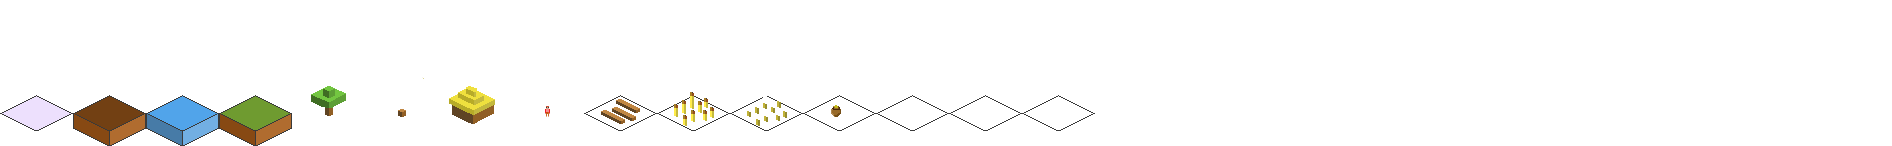
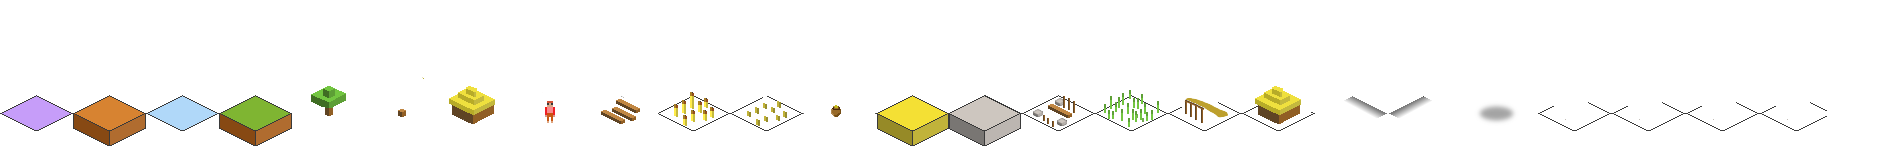
Added fake soft shadow rendering

diff --git a/js/render.js b/js/render.js
@@ -22,10 +22,10 @@
     }
 
     Render.prototype.resize = function() {
-      this.viewport_width = parseInt(window.innerWidth / this.tile_width / 2, 10);
-      this.viewport_height = parseInt(window.innerHeight / this.tile_height / 2, 10);
+      this.viewport_width = parseInt(window.innerWidth / (this.tile_width * this.zoom) / 2, 10);
+      this.viewport_height = parseInt(window.innerHeight / (this.tile_height * this.zoom) / 2, 10);
       this.viewport_offset_x = window.innerWidth / 2;
-      return this.viewport_offset_y = 0;
+      return this.viewport_offset_y = -120;
     };
 
     Render.prototype.update = function() {
@@ -69,7 +69,7 @@
     };
 
     Render.prototype.update_map = function() {
-      var height, i, ix, iy, light, ox, oy, ref, results, tile, x, y;
+      var actor, height, i, ix, iy, light, ox, oy, ref, results, task, tile, x, y;
       this.map_context.clearRect(0, 0, 2000, 2000);
       results = [];
       for (x = i = 1, ref = this.viewport_width; 1 <= ref ? i <= ref : i >= ref; x = 1 <= ref ? ++i : --i) {
@@ -93,17 +93,33 @@
             }
             tile = this.world.map[ox][oy].tile;
             height = this.world.map[ox][oy].get_vertical_offset();
-            if (this.world.map[ox][oy].height < this.world.water_level) {
-              height = 0;
-            }
             ix = x * this.tile_width - (y * this.tile_width);
             iy = y * this.tile_height + (x * this.tile_height);
             light = this.world.light[ox][oy];
+            if (height < this.world.water_level) {
+              light = 10;
+            }
             this.draw_tile(this.map_context, tile, ix, iy, height, light);
+            if (oy > 1 && this.world.map[ox][oy - 1].height > height) {
+              this.draw_tile(this.map_context, 18, ix, iy, height, light);
+            }
+            if (ox > 1 && this.world.map[ox - 1][oy].height > height) {
+              this.draw_tile(this.map_context, 19, ix, iy, height, light);
+            }
+            if (this.world.items[ox][oy]) {
+              this.draw_tile(this.map_context, 20, ix, iy, height, light);
+            }
+            if (height < this.world.water_level) {
+              this.draw_tile(this.map_context, 2, ix, iy, this.world.water_level, light);
+            }
             this.map_context.fillStyle = '#ccc';
-            if (this.world.task[ox][oy]) {
+            task = this.world.task[ox][oy];
+            if (task) {
+              if (task.work > 0) {
+                this.map_context.fillText(task.work, ix + this.viewport_offset_x + this.tile_width / 2, (iy + this.viewport_offset_y - height * 3) + 85);
+              }
               if (!this.world.items[ox][oy]) {
-                this.map_context.fillText(this.world.task[ox][oy].abbr, ix + this.viewport_offset_x + 17, (iy + this.viewport_offset_y - height * 3) + 85);
+                this.map_context.fillText(task.abbr, ix + this.viewport_offset_x + 17, (iy + this.viewport_offset_y - height * 3) + 85);
               }
             }
             if (this.world.items[ox][oy]) {
@@ -114,7 +130,8 @@
               }
             }
             if (this.world.actors[ox][oy]) {
-              tile = this.world.actors[ox][oy].get_tile();
+              actor = this.world.actors[ox][oy];
+              tile = actor.get_tile();
               this.draw_tile(this.map_context, tile, ix, iy, height, light);
               if (this.world.actors[ox][oy].carry) {
                 tile = this.world.actors[ox][oy].carry.get_tile();

diff --git a/js/world.js b/js/world.js
@@ -351,7 +351,7 @@
           var j, ref1, results1;
           results1 = [];
           for (y = j = 1, ref1 = this.height; 1 <= ref1 ? j <= ref1 : j >= ref1; y = 1 <= ref1 ? ++j : --j) {
-            results1.push(this.map[x][y] = new window.Grass(this, x, y, this.height_map[x][y]));
+            results1.push(this.map[x][y] = new window.Beach(this, x, y, this.height_map[x][y]));
           }
           return results1;
         }).call(this));
@@ -394,8 +394,8 @@
           plains[x][y] = Math.floor(Math.random() * 10);
         }
       }
-      this.smoothen(plains, 6);
-      this.normalize(plains, 3);
+      this.smoothen(plains, 10);
+      this.normalize(plains, 4);
       this.lightmap();
       results = [];
       for (x = k = 1, ref2 = this.width; 1 <= ref2 ? k <= ref2 : k >= ref2; x = 1 <= ref2 ? ++k : --k) {
@@ -404,21 +404,26 @@
           var l, ref3, results1;
           results1 = [];
           for (y = l = 1, ref3 = this.height; 1 <= ref3 ? l <= ref3 : l >= ref3; y = 1 <= ref3 ? ++l : --l) {
-            this.map[x][y] = new window.Grass(this, x, y, this.height_map[x][y]);
-            if (plains[x][y] === 1) {
-              this.map[x][y] = new window.Grass(this, x, y, this.height_map[x][y]);
-            }
-            if (Math.floor(Math.random() * 50) === 1) {
-              this.items[x][y] = new window.Wheat(this, x, y, this.height_map[x][y]);
-            }
-            if (plains[x][y] === 3) {
-              this.items[x][y] = new window.Tree(this, x, y, this.height_map[x][y]);
-            }
+            this.map[x][y] = new window.Plains(this, x, y, this.height_map[x][y]);
             if (this.height_map[x][y] < this.water_level) {
-              this.map[x][y] = new window.Water(this, x, y, this.height_map[x][y]);
-              results1.push(this.items[x][y] = null);
+              results1.push(this.map[x][y] = new window.Dirt(this, x, y, this.height_map[x][y]));
             } else {
-              results1.push(void 0);
+              if (Math.floor(Math.random() * 40) === 1) {
+                this.items[x][y] = new window.Wheat(this, x, y, this.height_map[x][y]);
+              }
+              if (plains[x][y] === 4) {
+                this.items[x][y] = new window.Tree(this, x, y, this.height_map[x][y]);
+              }
+              if (x > 1 && y > 1 && x < this.width - 2 && y < this.height - 2) {
+                if ((this.height_map[x + 1][y] < this.water_level) || (this.height_map[x - 1][y] < this.water_level) || (this.height_map[x][y - 1] < this.water_level) || (this.height_map[x][y + 1] < this.water_level)) {
+                  this.map[x][y] = new window.Beach(this, x, y, this.height_map[x][y]);
+                  results1.push(this.items[x][y] = null);
+                } else {
+                  results1.push(void 0);
+                }
+              } else {
+                results1.push(void 0);
+              }
             }
           }
           return results1;

diff --git a/js/location.js b/js/location.js
@@ -70,16 +70,16 @@
 
   })(window.Location);
 
-  window.Grass = (function(superClass) {
-    extend(Grass, superClass);
+  window.Plains = (function(superClass) {
+    extend(Plains, superClass);
 
-    function Grass() {
-      return Grass.__super__.constructor.apply(this, arguments);
+    function Plains() {
+      return Plains.__super__.constructor.apply(this, arguments);
     }
 
-    Grass.prototype.tile = 3;
+    Plains.prototype.tile = 3;
 
-    return Grass;
+    return Plains;
 
   })(window.Location);
 
@@ -93,6 +93,19 @@
     Dirt.prototype.tile = 1;
 
     return Dirt;
+
+  })(window.Location);
+
+  window.Beach = (function(superClass) {
+    extend(Beach, superClass);
+
+    function Beach() {
+      return Beach.__super__.constructor.apply(this, arguments);
+    }
+
+    Beach.prototype.tile = 12;
+
+    return Beach;
 
   })(window.Location);
 

diff --git a/tiled.html b/tiled.html
@@ -44,10 +44,12 @@
         <script type="text/javascript" src="js/objects/materials/wheat.js"></script>
         <script type="text/javascript" src="js/objects/materials/potato.js"></script>
         <script type="text/javascript" src="js/objects/materials/potato_plant.js"></script>
+        <script type="text/javascript" src="js/objects/materials/grass.js"></script>
 
         <!-- Buildings -->
         <script type="text/javascript" src="js/objects/building.js"></script>
         <script type="text/javascript" src="js/objects/building/house.js"></script>
+        <script type="text/javascript" src="js/objects/building/buildsite.js"></script>
 
         <!-- Tasks -->
         <script type="text/javascript" src="js/tasks/build.js"></script>

diff --git a/js/tasks/build.js b/js/tasks/build.js
@@ -8,9 +8,7 @@
 
     BuildTask.prototype.get_tile = function() {
       if (this.material_at_build) {
-        return "construction";
-      } else {
-        return "command";
+        return 12;
       }
     };
 
@@ -58,7 +56,9 @@
           }
         }
         this.world.remove_item(material_at_location);
-        this.material_at_build = true;
+        if (!this.material_at_build) {
+          this.world.add_item(new Buildsite(this.world, this.x, this.y));
+        }
       }
       ref1 = this.options.needs;
       for (index in ref1) {

diff --git a/js/actors.js b/js/actors.js
@@ -24,8 +24,6 @@
       this.target_x = x;
       this.target_y = y;
       this.tasks = [];
-      this.tile_offset_x = Math.random() * 10 - 20;
-      this.tile_offset_y = Math.random() * 10 - 20;
       this.id = this.world.get_id();
     }
 

diff --git a/js/objects/building/house.js b/js/objects/building/house.js
@@ -11,7 +11,7 @@
     }
 
     House.prototype.get_tile = function() {
-      return 6;
+      return 16;
     };
 
     House.prototype.created = function() {

diff --git a/css/tiles.css b/css/tiles.css
@@ -6,6 +6,7 @@
 
 body {
     background: #000;
+    overflow: hidden;
 }
 
 #world {
